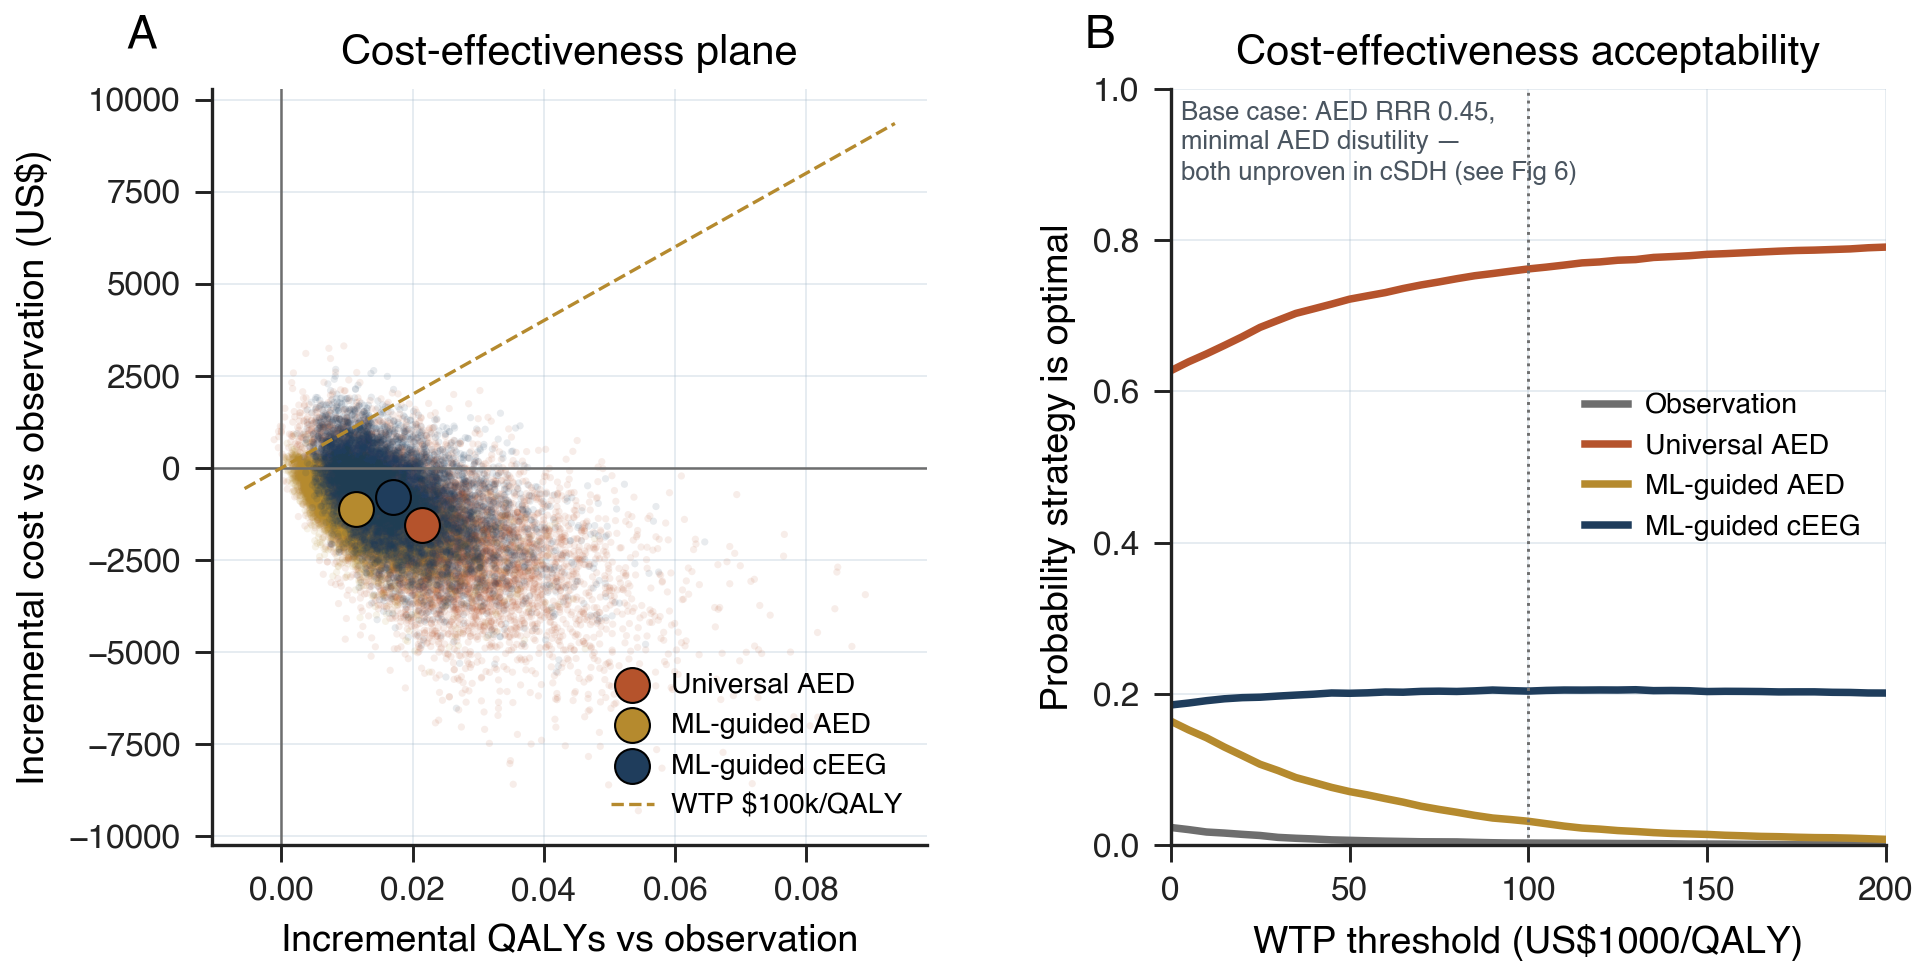
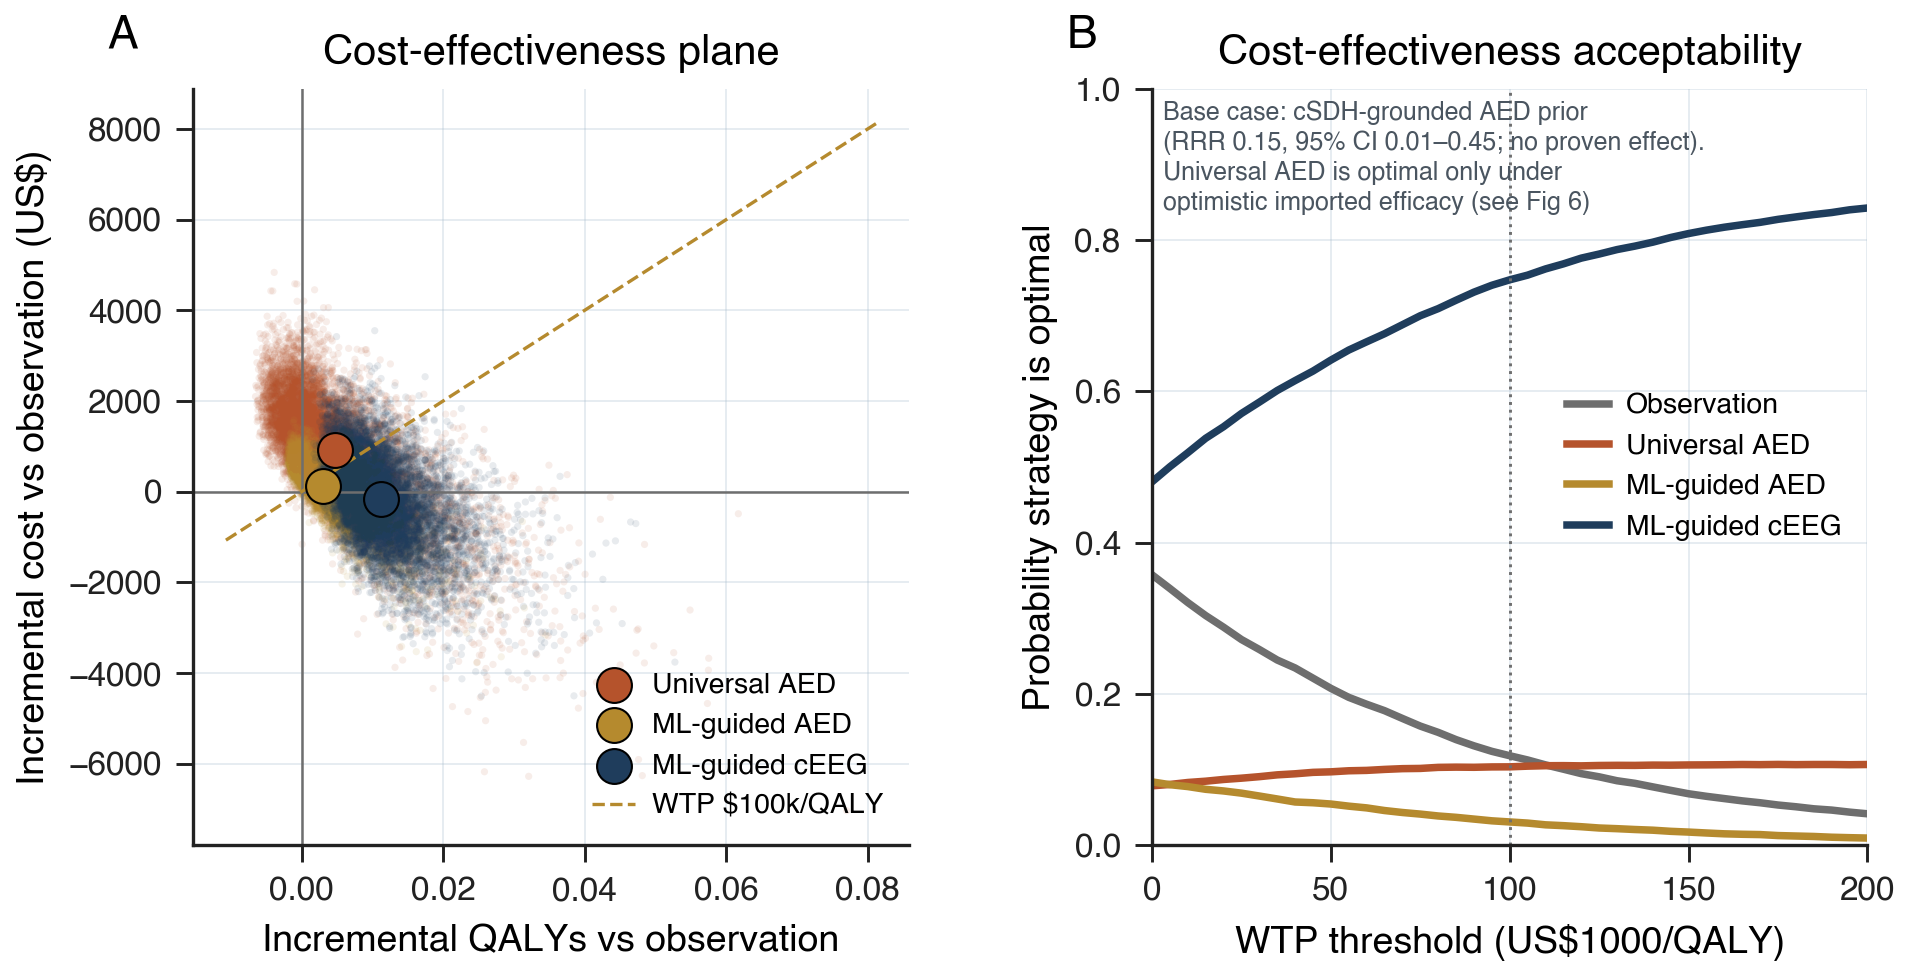
F5/CEA: re-center base case on cSDH-grounded AED efficacy prior
The CEA PSA base case used AED RRR 0.45 (imported from TBI/tumour prophylaxis),
the single setting in which universal AED outranks ML-guided allocation -- which
contradicted the paper's conclusion and was inconsistent with the VOI analysis
(script 45), which already used the cSDH-grounded prior (mean 0.15, 95% CI
0.01-0.45; no proven effect).

Harmonize script 38's PSA efficacy prior to the same cSDH-grounded prior. Under
it, ML-guided cEEG is the most-probably-optimal strategy at $100k/QALY
(p_best ~0.57-0.76 across conformal mappings), so F5 and F6 now tell the same
story. RRR 0.45 is retained as the optimistic sensitivity scenario (F6). Updated
the F5 Panel B note and caption to state the new base-case prior; the Results
text already framed 0.45 as the optimistic imported reference, so no prose
change was needed. Operating points are unaffected (RRR-independent).

diff --git a/scripts/29_main_figures_jnnp.py b/scripts/29_main_figures_jnnp.py
@@ -597,13 +597,15 @@ def figure_5():
     for s in S:
         axB.plot(wtp / 1000, prob[s], color=cmap[s], lw=1.8, label=labels[s])
     axB.axvline(100, color=COL["grey"], ls=":", lw=0.7)
-    # Surface the assumptions that drive "Universal AED optimal" so the panel is
-    # not read as evidence that AED is best: the base case assumes AED works
-    # (RRR 0.45) with minimal disutility, neither established in cSDH (see F6).
+    # State the base-case AED efficacy prior so the ranking is interpretable:
+    # cSDH-grounded (no proven effect), matching the VOI analysis. Universal AED
+    # becomes optimal only under an optimistic imported efficacy (see F6).
     axB.text(0.015, 0.985,
-              "Base case: AED RRR 0.45,\nminimal AED disutility —\n"
-              "both unproven in cSDH (see Fig 6)",
-              transform=axB.transAxes, fontsize=6.2, color=COL["slate"],
+              "Base case: cSDH-grounded AED prior\n"
+              "(RRR 0.15, 95% CI 0.01–0.45; no proven effect).\n"
+              "Universal AED is optimal only under\n"
+              "optimistic imported efficacy (see Fig 6)",
+              transform=axB.transAxes, fontsize=6.0, color=COL["slate"],
               va="top", ha="left", linespacing=1.3)
     axB.set_xlim(0, 200); axB.set_ylim(0, 1)
     axB.set_xlabel("WTP threshold (US$1000/QALY)")

diff --git a/scripts/27_build_jnnp_manuscript.py b/scripts/27_build_jnnp_manuscript.py
@@ -733,11 +733,14 @@ def build_main():
                 "means; dashed line, $100,000/QALY willingness-to-pay). "
                 "B, Cost-effectiveness acceptability curves: probability each "
                 "strategy is optimal across willingness-to-pay. The base case "
-                "assumes an antiepileptic-drug relative-risk reduction of 0.45 "
-                "and minimal AED disutility (0.02); neither is established in "
-                "cSDH, and the preferred strategy is sensitive to both "
-                "(Figure 6). Universal AED is most often optimal only under "
-                "these favourable AED assumptions.")
+                "uses a cSDH-grounded antiepileptic-drug efficacy prior "
+                "(relative-risk reduction mean 0.15, 95% interval 0.01–0.45; no "
+                "cSDH study demonstrates a protective effect), matching the "
+                "value-of-information analysis; under this prior ML-guided "
+                "allocation is most often optimal. Universal AED becomes optimal "
+                "only under an optimistic imported efficacy (relative-risk "
+                "reduction 0.45) with negligible disutility, shown as a "
+                "sensitivity scenario in Figure 6.")
     register_figure("Figure 6", FIG / "F6_voi.png",
                 "Figure 6.  Decision sensitivity and value of information. "
                 "A, One-way sensitivity at WTP $100,000/QALY: net-benefit swing "

diff --git a/scripts/38_deployable_model_reanalysis.py b/scripts/38_deployable_model_reanalysis.py
@@ -123,7 +123,13 @@ def run_psa_custom(sens_mu, sens_lo, sens_hi, spec_mu, spec_lo, spec_hi,
     a_sens, b_sens   = beta_params_from_ci(sens_mu, sens_lo, sens_hi)
     a_spec, b_spec   = beta_params_from_ci(spec_mu, spec_lo, spec_hi)
     a_pse, b_pse     = beta_params_from_ci(0.10, 0.03, 0.20)
-    a_rrr, b_rrr     = beta_params_from_ci(0.45, 0.25, 0.65)
+    # AED efficacy prior: cSDH-grounded (no proven protective effect; mean 0.15,
+    # 95% interval 0.01-0.45), matching the value-of-information analysis
+    # (script 45). The previous base case (0.45, imported from TBI/tumour
+    # prophylaxis) is optimistic for cSDH and is retained only as a sensitivity
+    # scenario (Figure 6); it is the single setting under which universal AED
+    # outranks ML-guided allocation.
+    a_rrr, b_rrr     = beta_params_from_ci(0.15, 0.01, 0.45)
     a_pe_det, b_pe_det = beta_params_from_ci(0.03, 0.01, 0.06)
     a_pe_und, b_pe_und = beta_params_from_ci(0.12, 0.06, 0.20)
     sh_aed_drug, sc_aed_drug = gamma_params(200, 80)